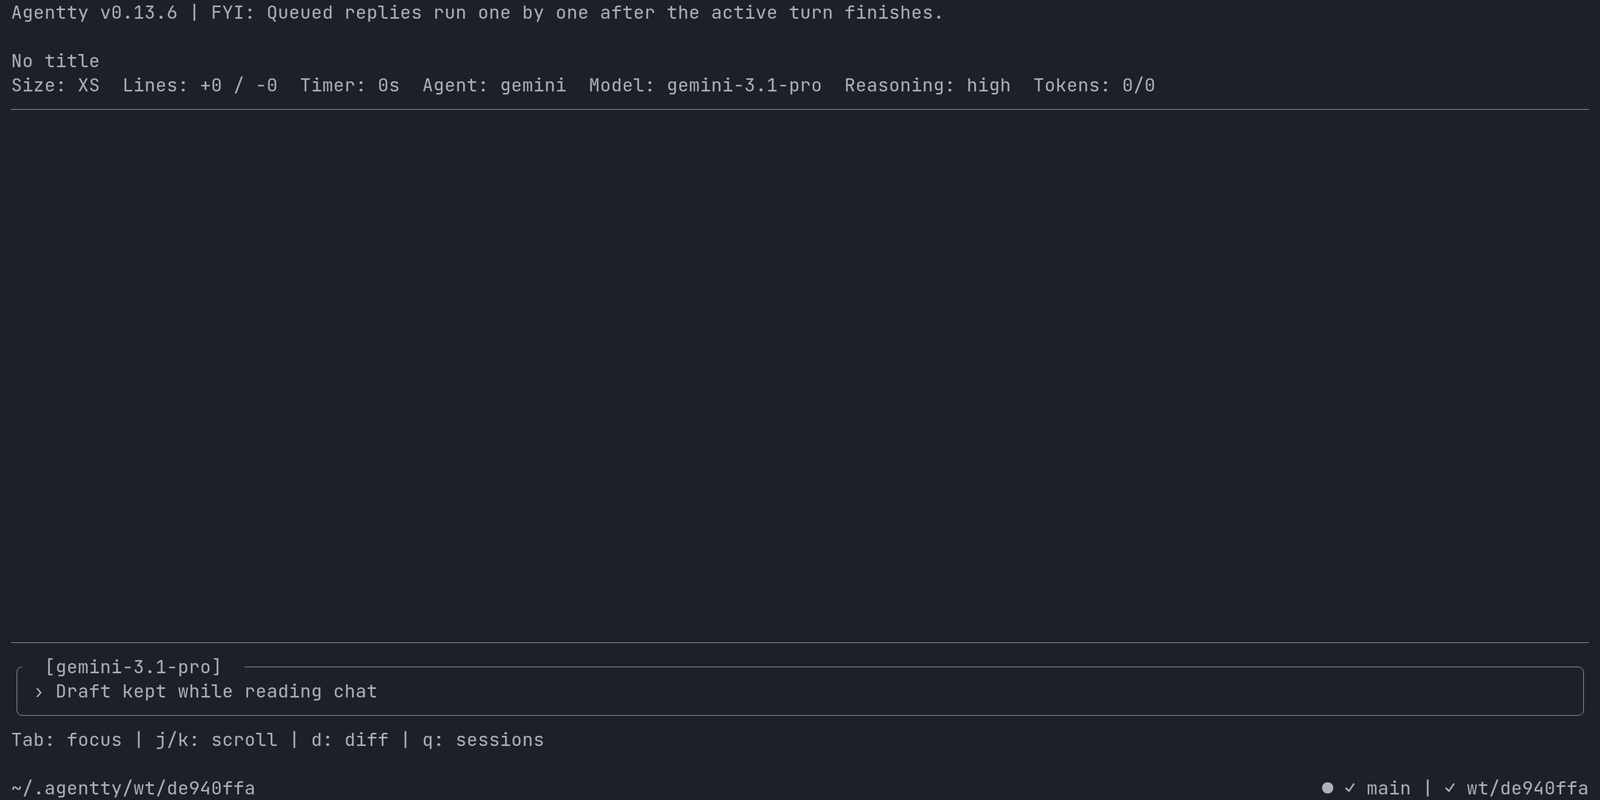
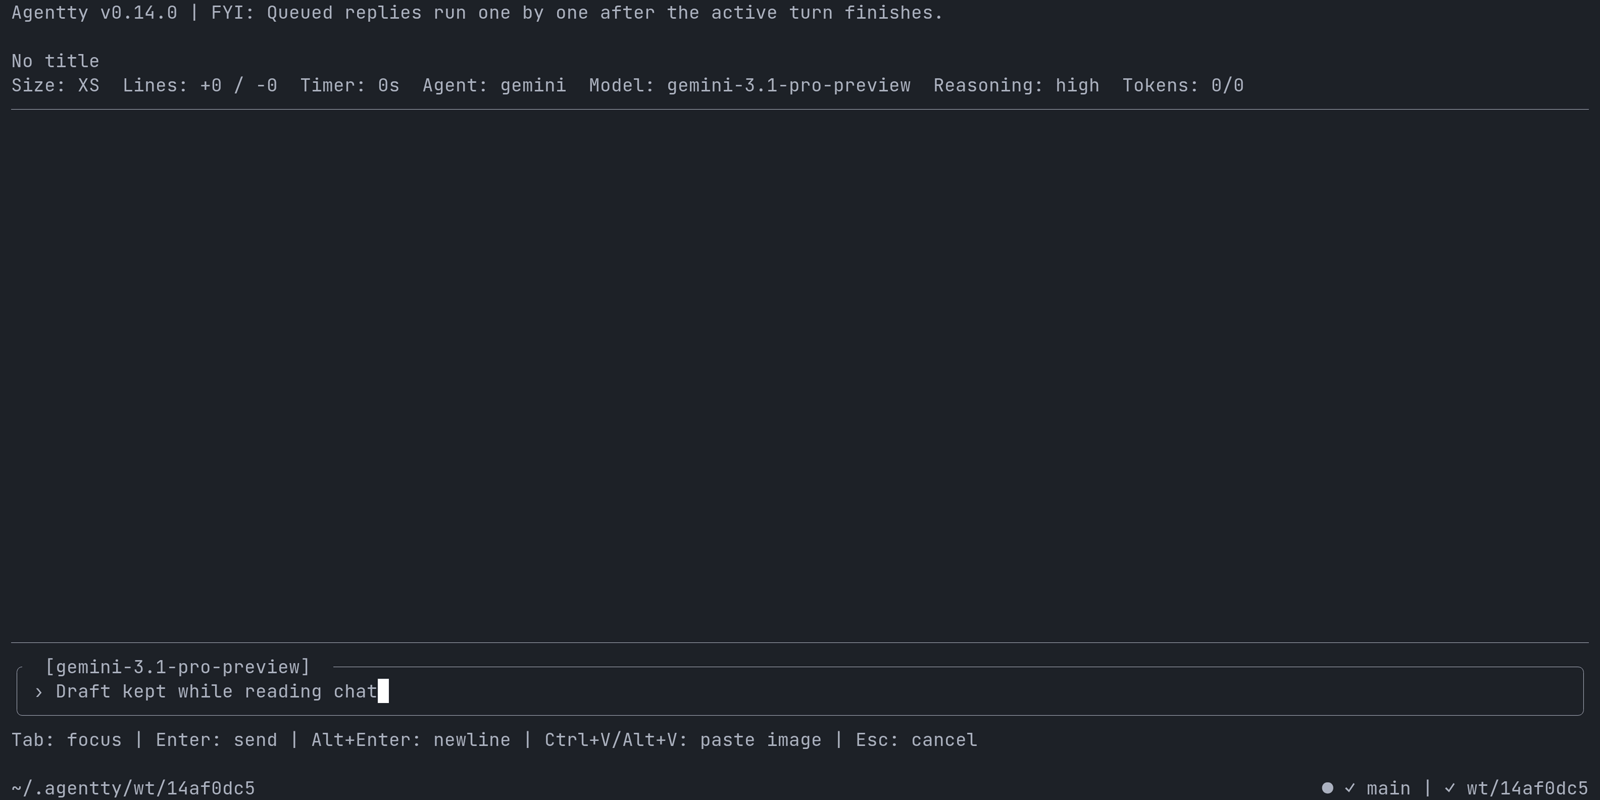
Agentty supports preview Gemini identifiers and multi-architecture E2E images
- Gemini integrations use `gemini-3.1-pro-preview` and migrate stored `gemini-3.1-pro` values.
- E2E images use checksum-verified, architecture-specific tool bundles for `amd64` and `arm64`.
- E2E recording guidance follows the multi-architecture image workflow.

diff --git a/crates/ag-agent/src/model/agent.rs b/crates/ag-agent/src/model/agent.rs
@@ -94,7 +94,7 @@ pub enum AgentModel {
     Gemini36Flash,
     /// Lightweight Gemini model backed by `gemini-3.5-flash-lite`.
     Gemini35FlashLite,
-    /// Higher-quality Gemini model backed by `gemini-3.1-pro`.
+    /// Higher-quality Gemini preview model backed by `gemini-3.1-pro-preview`.
     Gemini31Pro,
     /// Codex spark model backed by `gpt-5.3-codex-spark`.
     Gpt53CodexSpark,
@@ -179,7 +179,7 @@ impl AgentModel {
             Self::Gpt56Luna => "gpt-5.6-luna",
             Self::Gemini36Flash => "gemini-3.6-flash",
             Self::Gemini35FlashLite => "gemini-3.5-flash-lite",
-            Self::Gemini31Pro => "gemini-3.1-pro",
+            Self::Gemini31Pro => "gemini-3.1-pro-preview",
             Self::Gpt53CodexSpark => "gpt-5.3-codex-spark",
             Self::ClaudeOpus5 => "claude-opus-5",
             Self::ClaudeSonnet5 => "claude-sonnet-5",
@@ -229,9 +229,9 @@ impl AgentModel {
     pub fn retired_replacement(value: &str) -> Option<Self> {
         const RETIRED_MODEL_REPLACEMENTS: &[(&str, AgentModel)] = &[
             ("gemini-3-pro-preview", AgentModel::Gemini31Pro),
+            ("gemini-3.1-pro", AgentModel::Gemini31Pro),
             ("gemini-3-flash-preview", AgentModel::Gemini36Flash),
             ("gemini-3.5-flash", AgentModel::Gemini35FlashLite),
-            ("gemini-3.1-pro-preview", AgentModel::Gemini31Pro),
             (
                 "gemini-3.1-flash-lite-preview",
                 AgentModel::Gemini35FlashLite,
@@ -515,7 +515,7 @@ impl FromStr for AgentModel {
         match value {
             "gemini-3.6-flash" => Ok(Self::Gemini36Flash),
             "gemini-3.5-flash-lite" => Ok(Self::Gemini35FlashLite),
-            "gemini-3.1-pro" => Ok(Self::Gemini31Pro),
+            "gemini-3.1-pro-preview" => Ok(Self::Gemini31Pro),
             "gpt-5.6-sol" => Ok(Self::Gpt56Sol),
             "gpt-5.6-terra" => Ok(Self::Gpt56Terra),
             "gpt-5.6-luna" => Ok(Self::Gpt56Luna),
@@ -746,7 +746,7 @@ mod tests {
         let antigravity_kind = AgentKind::Antigravity;
 
         // Act
-        let parsed_pro = antigravity_kind.parse_model("gemini-3.1-pro");
+        let parsed_pro = antigravity_kind.parse_model("gemini-3.1-pro-preview");
         let parsed_flash_36 = antigravity_kind.parse_model("gemini-3.6-flash");
         let parsed_flash_35_lite = antigravity_kind.parse_model("gemini-3.5-flash-lite");
 
@@ -768,6 +768,20 @@ mod tests {
 
         // Assert
         assert_eq!(parsed_model, Some(AgentModel::Gemini36Flash));
+    }
+
+    #[test]
+    /// Ensures both Google providers reject the invalid non-preview Gemini
+    /// 3.1 Pro identifier.
+    fn test_parse_model_rejects_non_preview_gemini_31_pro() {
+        // Arrange
+        let agent_kinds = [AgentKind::Gemini, AgentKind::Antigravity];
+
+        // Act
+        let parsed_models = agent_kinds.map(|kind| kind.parse_model("gemini-3.1-pro"));
+
+        // Assert
+        assert_eq!(parsed_models, [None; 2]);
     }
 
     #[test]
@@ -860,9 +874,9 @@ mod tests {
         // Arrange
         let retired_ids = [
             ("gemini-3-pro-preview", AgentModel::Gemini31Pro),
+            ("gemini-3.1-pro", AgentModel::Gemini31Pro),
             ("gemini-3-flash-preview", AgentModel::Gemini36Flash),
             ("gemini-3.5-flash", AgentModel::Gemini35FlashLite),
-            ("gemini-3.1-pro-preview", AgentModel::Gemini31Pro),
             (
                 "gemini-3.1-flash-lite-preview",
                 AgentModel::Gemini35FlashLite,
@@ -883,7 +897,7 @@ mod tests {
             retired_ids.map(|(retired_id, _)| AgentModel::retired_replacement(retired_id));
         let selectable_parses = retired_ids.map(|(retired_id, _)| retired_id.parse::<AgentModel>());
         let current_replacements = [
-            "gemini-3.1-pro",
+            "gemini-3.1-pro-preview",
             "gemini-3.6-flash",
             "gemini-3.5-flash-lite",
             "claude-opus-5",
@@ -918,6 +932,7 @@ mod tests {
         let parsed_gemini_35_flash = AgentModel::parse_persisted("gemini-3.5-flash");
         let parsed_gemini_3_flash_preview = AgentModel::parse_persisted("gemini-3-flash-preview");
         let parsed_gemini_35_flash_lite = AgentModel::parse_persisted("gemini-3.5-flash-lite");
+        let parsed_gemini_31_pro = AgentModel::parse_persisted("gemini-3.1-pro");
         let parsed_gemini_31_pro_preview = AgentModel::parse_persisted("gemini-3.1-pro-preview");
         let parsed_gemini_31_flash_lite_preview =
             AgentModel::parse_persisted("gemini-3.1-flash-lite-preview");
@@ -936,6 +951,7 @@ mod tests {
             parsed_gemini_35_flash_lite,
             Ok(AgentModel::Gemini35FlashLite)
         );
+        assert_eq!(parsed_gemini_31_pro, Ok(AgentModel::Gemini31Pro));
         assert_eq!(parsed_gemini_31_pro_preview, Ok(AgentModel::Gemini31Pro));
         assert_eq!(
             parsed_gemini_31_flash_lite_preview,

diff --git a/crates/agentty/tests/e2e/session.rs b/crates/agentty/tests/e2e/session.rs
@@ -1321,7 +1321,7 @@ printf '{"event":"result","result":{"conversation_id":"stub-conversation","statu
         env,
         &[
             ("DefaultSmartAgent", "antigravity"),
-            ("DefaultSmartModel", "gemini-3.1-pro"),
+            ("DefaultSmartModel", "gemini-3.1-pro-preview"),
         ],
     )?;
 
@@ -1338,7 +1338,7 @@ fn seed_antigravity_oversized_replay_project(
         env,
         SessionSeed::regular(
             ANTIGRAVITY_OVERSIZED_REPLAY_SESSION_ID,
-            "gemini-3.1-pro",
+            "gemini-3.1-pro-preview",
             "main",
             "Review",
         )
@@ -4732,7 +4732,7 @@ fn antigravity_model_picker_includes_gemini_models() -> E2eResult {
             },
             |frame, _report| {
                 let full = Region::full(frame.cols(), frame.rows());
-                assertion::assert_text_in_region(frame, "gemini-3.1-pro", &full);
+                assertion::assert_text_in_region(frame, "gemini-3.1-pro-preview", &full);
                 assertion::assert_text_in_region(frame, "gemini-3.6-flash", &full);
                 assertion::assert_text_in_region(frame, "gemini-3.5-flash-lite", &full);
             },
@@ -6703,9 +6703,12 @@ fn session_speed_mode_selection() -> E2eResult {
                     .press_key("Enter")
                     .wait_for_text("/model Agent", 3000)
                     .press_key("Enter")
-                    .wait_for_text("gemini-3.1-pro", 3000)
+                    .wait_for_text("gemini-3.1-pro-preview", 3000)
                     .press_key("Enter")
-                    .wait_for_text("Model: gemini-3.1-pro  Reasoning: high  Tokens:", 5000)
+                    .wait_for_text(
+                        "Model: gemini-3.1-pro-preview  Reasoning: high  Tokens:",
+                        5000,
+                    )
                     .capture_labeled(
                         "incompatible_model_normalizes_speed",
                         "Switching to Gemini drops fast mode and its speed display",
@@ -6731,7 +6734,7 @@ fn session_speed_mode_selection() -> E2eResult {
                 let full = Region::full(frame.cols(), frame.rows());
                 assertion::assert_text_in_region(
                     frame,
-                    "Model: gemini-3.1-pro  Reasoning: high  Tokens:",
+                    "Model: gemini-3.1-pro-preview  Reasoning: high  Tokens:",
                     &full,
                 );
                 assertion::assert_not_visible(frame, "· Fast");

diff --git a/crates/agentty/src/app/setting.rs b/crates/agentty/src/app/setting.rs
@@ -1391,7 +1391,7 @@ mod tests {
             .upsert_project_settings(
                 project_id,
                 vec![
-                    (SettingName::DefaultSmartModel, "gpt-5.5".to_string()),
+                    (SettingName::DefaultSmartModel, "gemini-3.1-pro".to_string()),
                     (
                         SettingName::DefaultFastModel,
                         "gemini-3-flash-preview".to_string(),
@@ -1412,7 +1412,7 @@ mod tests {
         // Assert
         assert_eq!(
             settings.default_smart_selection,
-            AgentSelection::new(AgentKind::Codex, AgentModel::Gpt56Sol)
+            AgentSelection::new(AgentKind::Antigravity, AgentModel::Gemini31Pro)
         );
         assert_eq!(
             settings.default_fast_selection,
@@ -1426,9 +1426,12 @@ mod tests {
         let expected_persisted_settings = [
             (
                 SettingName::DefaultSmartModel,
-                AgentModel::Gpt56Sol.as_str(),
+                AgentModel::Gemini31Pro.as_str(),
             ),
-            (SettingName::DefaultSmartAgent, AgentKind::Codex.name()),
+            (
+                SettingName::DefaultSmartAgent,
+                AgentKind::Antigravity.name(),
+            ),
             (
                 SettingName::DefaultFastModel,
                 AgentModel::Gemini36Flash.as_str(),
@@ -1916,7 +1919,7 @@ mod tests {
         let rows = manager.settings_rows();
 
         // Assert
-        assert_eq!(rows[2].1, "antigravity/gemini-3.1-pro [high]");
+        assert_eq!(rows[2].1, "antigravity/gemini-3.1-pro-preview [high]");
     }
 
     #[test]
@@ -1935,7 +1938,7 @@ mod tests {
         let rows = manager.settings_rows();
 
         // Assert
-        assert_eq!(rows[2].1, "gemini/gemini-3.1-pro [high]");
+        assert_eq!(rows[2].1, "gemini/gemini-3.1-pro-preview [high]");
     }
 
     #[test]

diff --git a/crates/agentty/tests/e2e/setting.rs b/crates/agentty/tests/e2e/setting.rs
@@ -139,7 +139,7 @@ fn settings_tab_shows_content() {
                 assertion::assert_text_in_region(frame, "Default Smart Model", &full);
                 assertion::assert_text_in_region(frame, "Default Fast Model", &full);
                 assertion::assert_text_in_region(frame, "Default Review Model", &full);
-                assertion::assert_text_in_region(frame, "gemini/gemini-3.1-pro", &full);
+                assertion::assert_text_in_region(frame, "gemini/gemini-3.1-pro-preview", &full);
                 assertion::assert_text_in_region(frame, "[high]", &full);
                 assertion::assert_text_in_region(frame, "Disabled", &full);
                 assertion::assert_text_in_region(frame, "Launch Configurations", &full);
@@ -380,7 +380,11 @@ fn settings_model_selector_uses_two_steps() {
                 let model_frame = common::frame_from_capture(&report.captures[1]);
                 let model_full = Region::full(model_frame.cols(), model_frame.rows());
                 assertion::assert_text_in_region(&model_frame, "Select model", &model_full);
-                assertion::assert_match_count(&model_frame, "gemini/gemini-3.1-pro [max]", 0);
+                assertion::assert_match_count(
+                    &model_frame,
+                    "gemini/gemini-3.1-pro-preview [max]",
+                    0,
+                );
             },
         )
         .expect("feature test failed");

diff --git a/crates/agentty/src/app/session/workflow/load.rs b/crates/agentty/src/app/session/workflow/load.rs
@@ -1326,7 +1326,7 @@ mod tests {
             .expect("failed to upsert project");
         let session_id = "retired-active-session";
         db.sessions()
-            .insert_session(session_id, "claude-opus-4-6", "main", "Review", project_id)
+            .insert_session(session_id, "gemini-3.1-pro", "main", "Review", project_id)
             .await
             .expect("failed to insert session");
         let base_path = Path::new("/virtual/session-base");
@@ -1353,15 +1353,15 @@ mod tests {
             .iter()
             .find(|session| session.id == session_id)
             .expect("missing reloaded session");
-        assert_eq!(session.agent.model(), AgentModel::ClaudeOpus5);
+        assert_eq!(session.agent.model(), AgentModel::Gemini31Pro);
         let row = db
             .sessions()
             .load_session(session_id)
             .await
             .expect("failed to load session row")
             .expect("missing session row");
-        assert_eq!(row.model, "claude-opus-5");
-        assert_eq!(row.agent, "claude");
+        assert_eq!(row.model, "gemini-3.1-pro-preview");
+        assert_eq!(row.agent, "antigravity");
     }
 
     /// Ensures automatic model migration does not make an old session appear

diff --git a/skills/feature-test/SKILL.md b/skills/feature-test/SKILL.md
@@ -214,14 +214,15 @@ still run while GIF freshness is checked without invoking VHS or launching Chrom
 ### Record in the canonical container
 
 Committed hash sidecars must be produced by the same environment that CI verifies them
-in. `container/e2e.Containerfile` defines that environment: a pinned `linux/amd64` image
-with the Rust toolchain, `prek`, `cargo-nextest`, and the full VHS recording stack
-(`vhs`, `ttyd`, Chromium, `ffmpeg`, JetBrains Mono). Presubmit, postsubmit, and release
-checks pull this image from GHCR by digest and run the `test-agentty-e2e` hook inside it
-against a read-only checkout. Pull the same immutable digest for local recording instead
-of building or recording on the host. The host needs a running Podman environment only —
-no local Chrome or VHS — and the localhost-socket sandbox restriction below does not
-apply inside the container.
+in. `container/e2e.Containerfile` defines that environment: a pinned multi-architecture
+Linux image with the Rust toolchain, `prek`, `cargo-nextest`, and the full VHS recording
+stack (`vhs`, `ttyd`, Chromium, `ffmpeg`, JetBrains Mono). Presubmit, postsubmit, and
+release checks pull its `linux/amd64` variant from GHCR by digest and run the
+`test-agentty-e2e` hook inside it against a read-only checkout. Pull the same immutable
+manifest digest for native `linux/amd64` or `linux/arm64` recording instead of building
+or recording on the host. The host needs a running Podman environment only — no local
+Chrome or VHS — and the localhost-socket sandbox restriction below does not apply inside
+the container.
 
 On macOS or Windows, initialize the Podman machine once with `podman machine init`, then
 start it with `podman machine start` before pulling or running the image. Linux hosts
@@ -243,7 +244,7 @@ mkdir -p \
 
 podman pull "${e2e_image}"
 
-podman run --rm --platform linux/amd64 \
+podman run --rm \
   --user "$(id -u):$(id -g)" \
   --mount type=bind,source="$PWD",target=/workspace \
   --mount type=bind,source="${e2e_cache_root}",target=/cache \
@@ -268,16 +269,18 @@ nonempty-poster integrity check; a failed recording preserves the last valid pos
 #### Refresh the canonical image
 
 Only maintainers changing `container/e2e.Containerfile` should build and publish a
-replacement image. Build the `linux/amd64` candidate, run the affected focused feature
-tests with the local tag, then push `latest` after authenticating Podman to GHCR with
-package-write permission:
+replacement image. Build both supported platforms into one manifest, run affected
+focused feature tests against the native candidate for each available architecture, then
+push `latest` after authenticating Podman to GHCR with package-write permission:
 
 ```sh
-podman build --platform linux/amd64 \
+podman build --jobs 2 \
+  --platform linux/amd64,linux/arm64 \
+  --manifest ghcr.io/agentty-xyz/agentty-e2e:latest \
   --file container/e2e.Containerfile \
-  --tag ghcr.io/agentty-xyz/agentty-e2e:latest container
+  container
 
-podman push ghcr.io/agentty-xyz/agentty-e2e:latest
+podman manifest push --all ghcr.io/agentty-xyz/agentty-e2e:latest
 ```
 
 Copy the digest reported by `podman push` into every workflow `E2E_IMAGE` value and the

diff --git a/docs/site/content/docs/agents/backends.md b/docs/site/content/docs/agents/backends.md
@@ -173,7 +173,7 @@ entries with different trade-offs between speed, quality, and cost.
 
 Both providers share the same Gemini model ids:
 
-- `gemini-3.1-pro` (default): Higher-quality Gemini model for deeper reasoning.
+- `gemini-3.1-pro-preview` (default): Higher-quality Gemini model for deeper reasoning.
 - `gemini-3.6-flash`: Fast Gemini model for agentic and multimodal tasks.
 - `gemini-3.5-flash-lite`: Lightweight Gemini model for fast, cost-conscious workloads.
 
@@ -191,23 +191,11 @@ Both providers share the same Gemini model ids:
 - `gpt-5.6-luna`: Current Codex model for lighter coding iterations.
 - `gpt-5.3-codex-spark`: Codex spark model for quick coding iterations.
 
-### Retired Models
+### Stored Model Upgrades
 
-When a model is retired in favor of a replacement (for example, a new Claude Opus
-release superseding the previous one), Agentty upgrades stored references automatically:
-
-- Model pickers for new sessions list only the current models above; retired ids (such
-  as `gemini-3-pro-preview`, `gemini-3-flash-preview`, `gemini-3.5-flash`,
-  `gemini-3.1-pro-preview`, `gemini-3.1-flash-lite-preview`, `claude-opus-4-8`,
-  `claude-opus-4-7`, `claude-opus-4-6`, `claude-sonnet-4-6`, `gpt-5.5`, `gpt-5.4`,
-  `gpt-5.4-mini`, `gpt-5.3-codex`, or `gpt-5.2-codex`) are never selectable.
-- Stored project defaults that reference a retired model id are upgraded to the current
-  supported replacement when Agentty loads them.
-- Sessions that are still active are switched to the replacement model automatically,
-  and the switch is persisted so every following turn runs on the current model.
-- Finished sessions (`Merged`, `Done`, or `Canceled`) keep the retired model id in the
-  database as a historical record and are displayed with the replacement model when
-  reopened.
+Model pickers show only the current models listed above. When a stored project default
+or active session references a superseded model, Agentty upgrades and persists its
+replacement automatically. Finished sessions preserve their historical model data.
 
 ## Switching Models
 
